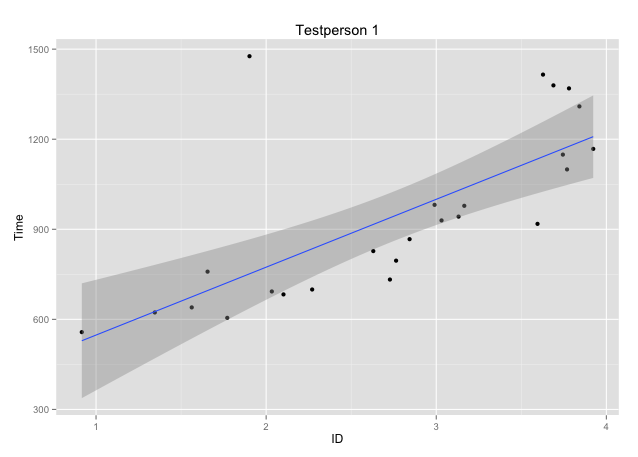
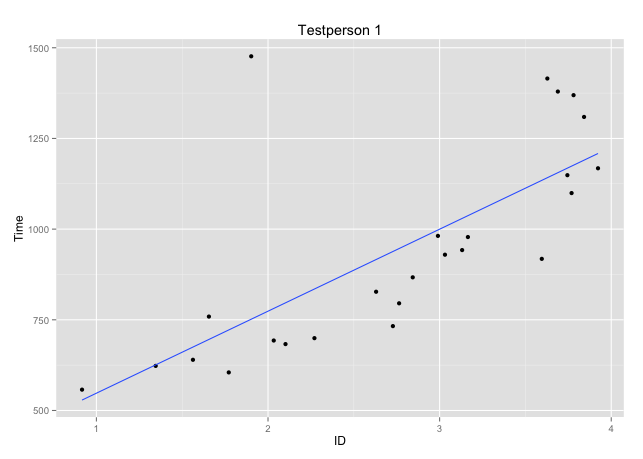
indledende analyse

diff --git a/latex/main.tex b/latex/main.tex
@@ -508,9 +508,9 @@ $AIC()$\footnote{R dokumentation om $AIC()$: \url{https://stat.ethz.ch/R-manual/
 
 \addcontentsline{toc}{section}{Indledende analyse}
 \section*{Indledende analyse}
-For at være sikre på, at vores data kan bruges til at sammenligne de fire formuleringer har vi først kigget på vores 10 testdeltagere hver for sig. Vi har fitted vores 10 testdeltageres data fra pegeopgaverne til Fitts lov hver for sig. Tre af disse plots kan ses i figurerne \ref{fig:testdeltager1}, \ref{fig:testdeltager6}, \ref{fig:testdeltager10}.  Det kan på graferne ses hvordan punkterne ligger tæt omkring modellen, angivet ved den blå linje. Men også, at enkelte datapunkter bryder tendensen, specielt på figur \ref{fig:testdeltager6}. 
+For at være sikre på, at vores data kan bruges til at sammenligne de fire formuleringer har vi først kigget på vores 10 testdeltagere hver for sig. Vi har fitted vores 10 testdeltageres data fra pegeopgaverne til Fitts lov hver for sig. Tre af disse plots kan ses i figurerne \ref{fig:testdeltager1}, \ref{fig:testdeltager6}, \ref{fig:testdeltager10}.  Det kan på graferne ses, hvordan punkterne ligger tæt omkring modellen, angivet ved den blå linje. Men også, at enkelte datapunkter bryder tendensen, specielt på figur \ref{fig:testdeltager6}. 
 
-På baggrund af de affine linjers overenstemmelse med størstedelen af datapunkterne har vi konkluderet, at vores data godt kan danne grundlag for en analyse af de fire formuleringer af Fitts lov. Vi vil dog fjerne alle datapunkter som afviger med mere end 3 gange standardafvigelsen, $\sigma$, som er kvadratroden af variansen på datasættet \cite{pearson1894}.
+På baggrund af de affine linjers overenstemmelse med størstedelen af datapunkterne har vi konkluderet, at vores data godt kan danne grundlag for en analyse af de fire formuleringer af Fitts lov. Vi vil dog analysere vores datasæt af to omgange, én med alle vores indsamlede data, og én, hvor vi har fjernet alle datapunkter, som afviger med mere end 3 gange standardafvigelsen, $\sigma$, som er kvadratroden af variansen på datasættet \cite{pearson1894}.
 
 \begin{minipage}{\linewidth}
 	\begin{minipage}[b]{.50\linewidth}
